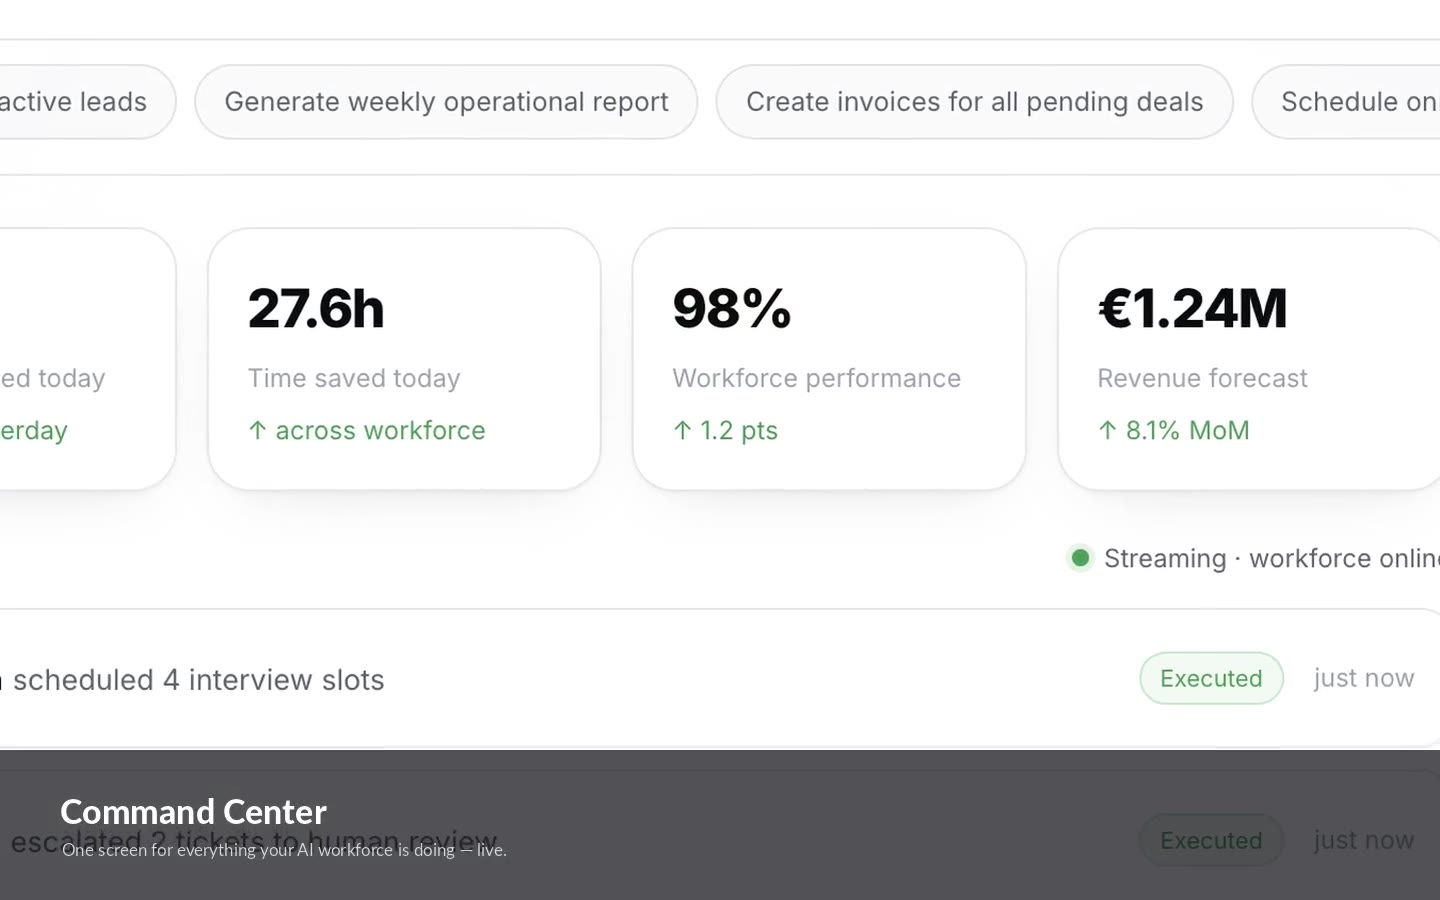
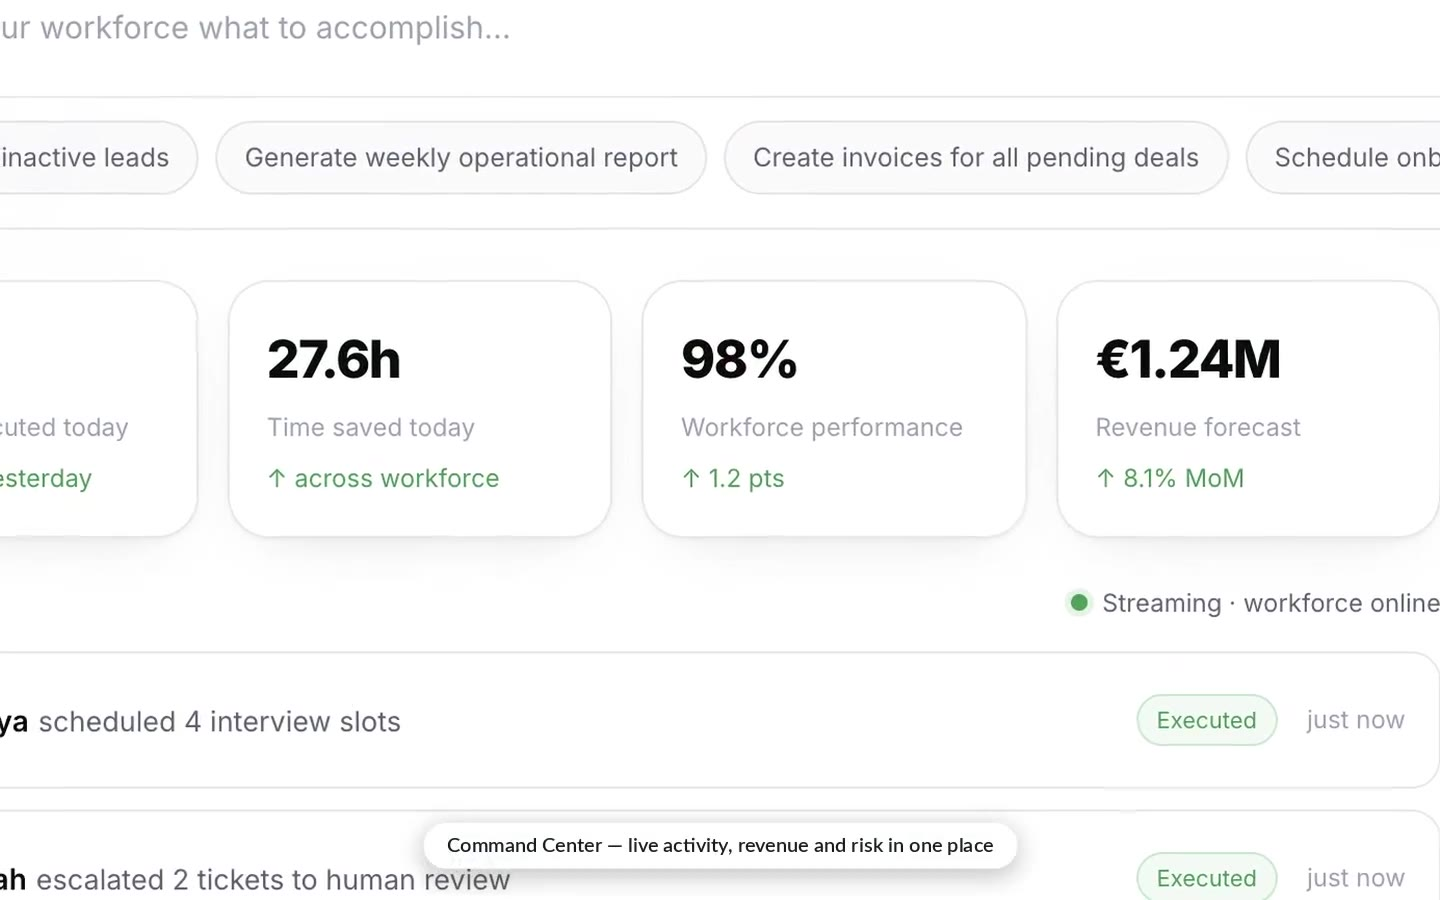
phone

diff --git a/command-center.html b/command-center.html
@@ -4,6 +4,7 @@
 <meta charset="UTF-8" />
 <meta name="viewport" content="width=device-width, initial-scale=1.0" />
 <script>/* auth guard — no dashboard without login */try{if(!localStorage.getItem('nexa_user'))location.replace('signin.html');}catch(e){}</script>
+<script>/* theme init (before paint to avoid flash) */try{var _t=localStorage.getItem('nexa_theme');document.documentElement.dataset.theme=(_t==='dark'||_t==='brand')?_t:'light';}catch(e){}</script>
 <title>NEXA — Command Center</title>
 <link rel="icon" href="assets/img/favicon.png" />
 <link rel="preconnect" href="https://fonts.googleapis.com" />
@@ -193,6 +194,63 @@ body { height: 100vh; overflow: hidden; }
 @media (max-width:820px){
   #repLayout, #docLayout { grid-template-columns: 1fr !important; }
 }
+
+/* =========================================================
+   THEMES — dashboard only · Light · NEXA (brand) · Dark
+   ========================================================= */
+.theme-switch { display:flex; gap:4px; padding:4px; border:1px solid var(--border); border-radius:12px; background:var(--bg-2); margin:auto 0 10px; }
+.theme-switch button { flex:1; display:grid; place-items:center; padding:8px 0; border:none; background:none; border-radius:8px; cursor:pointer; color:var(--text-3); transition:.18s; font-family:inherit; }
+.theme-switch button svg { width:16px; height:16px; }
+.theme-switch button:hover { color:var(--text); }
+.theme-switch button.active { background:var(--card); color:var(--accent-2); box-shadow:0 1px 4px rgba(0,0,0,.12); }
+@media (min-width:681px) and (max-width:1000px){ .theme-switch { flex-direction:column; } }
+@media (max-width:680px){
+  /* compact horizontal group that sits neatly at the end of the mobile tab bar */
+  .side .theme-switch { flex:0 0 auto; flex-direction:row; gap:2px; margin:0 0 0 4px; padding:3px; align-self:center; }
+  .side .theme-switch button { padding:7px 9px; }
+}
+
+/* ---- NEXA brand theme: logo colors (violet → magenta), light & readable ---- */
+html[data-theme="brand"]{
+  --bg:#FBFAFF; --bg-2:#F4F0FC; --surface:#FFFFFF; --card:#FFFFFF;
+  --ink:#1B1233; --text:#1B1233; --text-2:#675E83; --text-3:#7E73A2;
+  --border:rgba(124,58,237,0.14); --border-strong:rgba(124,58,237,0.24);
+  --accent:#7C3AED; --accent-2:#6D28D9; --accent-soft:#C4B5FD; --accent-glow:rgba(124,58,237,0.28);
+  --warm:#7C3AED; --warm-2:#C4B5FD; --sunset:#EC4899;
+  --warm-glow:rgba(236,72,153,0.18); --sunset-glow:rgba(236,72,153,0.20);
+}
+html[data-theme="brand"] .nav-i.active{ background:linear-gradient(100deg, rgba(124,58,237,0.20), rgba(236,72,153,0.08)); box-shadow:inset 0 0 0 1px rgba(124,58,237,0.30); }
+html[data-theme="brand"] .cmd-input .send,
+html[data-theme="brand"] .rep .gen,
+html[data-theme="brand"] .act .av,
+html[data-theme="brand"] .wf-card .av{ background:linear-gradient(135deg,var(--accent),var(--sunset)); }
+html[data-theme="brand"] .cmd-input:focus-within{ box-shadow:0 0 0 4px rgba(124,58,237,0.12); }
+
+/* ---- Dark theme — high contrast, everything stays legible ---- */
+html[data-theme="dark"]{
+  --bg:#0B0D12; --bg-2:#0E1117; --surface:#11141B; --card:#171B24;
+  --ink:#EEF1F6; --text:#EEF1F6; --text-2:#AAB2C0; --text-3:#7E8696;
+  --border:rgba(255,255,255,0.10); --border-strong:rgba(255,255,255,0.20);
+  --accent:#818CF8; --accent-2:#A5B4FC; --accent-soft:#A5B4FC; --accent-glow:rgba(129,140,248,0.30);
+  --warm:#A78BFA; --warm-2:#C4B5FD; --sunset:#60A5FA;
+  --success:#34D399; --warning:#FBBF24; --error:#F87171;
+}
+html[data-theme="dark"] body,
+html[data-theme="dark"] .app { background:var(--bg); }
+html[data-theme="dark"] .glass{ background:var(--card); box-shadow:0 1px 2px rgba(0,0,0,.45), 0 14px 32px -20px rgba(0,0,0,.8); }
+html[data-theme="dark"] .cmdbar{ background:rgba(17,20,27,0.72); }
+html[data-theme="dark"] .cmd-input .mic{ background:var(--card); color:var(--text-2); }
+html[data-theme="dark"] .int-card .lg{ background:var(--card); }
+html[data-theme="dark"] .int-toggle{ background:var(--card); color:var(--text); }
+html[data-theme="dark"] .perfbar{ background:rgba(255,255,255,0.12); }
+html[data-theme="dark"] .nav-i:hover{ background:rgba(255,255,255,0.06); }
+html[data-theme="dark"] .suggestion{ background:rgba(255,255,255,0.04); }
+html[data-theme="dark"] .task,
+html[data-theme="dark"] .wf-card .m{ background:rgba(255,255,255,0.04); }
+html[data-theme="dark"] .col h4 .ct{ background:rgba(255,255,255,0.08); }
+html[data-theme="dark"] .rec{ background:rgba(129,140,248,0.10); }
+html[data-theme="dark"] .theme-switch button.active{ box-shadow:0 1px 4px rgba(0,0,0,.55); }
+html[data-theme="dark"] ::-webkit-scrollbar-thumb{ background:#2a2f3a; border-color:var(--bg-2); }
 </style>
 </head>
 <body>
@@ -214,7 +272,12 @@ body { height: 100vh; overflow: hidden; }
     <a class="nav-i" data-view="documents" href="#documents"><span class="ic"><svg viewBox="0 0 24 24" fill="none" stroke="currentColor" stroke-width="2" stroke-linecap="round" stroke-linejoin="round"><path d="M14 2H6a2 2 0 0 0-2 2v16a2 2 0 0 0 2 2h12a2 2 0 0 0 2-2V8Z"/><polyline points="14 2 14 8 20 8"/><line x1="8" y1="13" x2="16" y2="13"/><line x1="8" y1="17" x2="13" y2="17"/></svg></span><span data-i18n="cc.documents">Documents</span></a>
     <a class="nav-i" data-view="settings" href="#settings"><span class="ic"><svg viewBox="0 0 24 24" fill="none" stroke="currentColor" stroke-width="2" stroke-linecap="round" stroke-linejoin="round"><circle cx="12" cy="12" r="3"/><path d="M19.4 15a1.65 1.65 0 0 0 .33 1.82l.06.06a2 2 0 1 1-2.83 2.83l-.06-.06a1.65 1.65 0 0 0-1.82-.33 1.65 1.65 0 0 0-1 1.51V21a2 2 0 0 1-4 0v-.09A1.65 1.65 0 0 0 9 19.4a1.65 1.65 0 0 0-1.82.33l-.06.06a2 2 0 1 1-2.83-2.83l.06-.06a1.65 1.65 0 0 0 .33-1.82 1.65 1.65 0 0 0-1.51-1H3a2 2 0 0 1 0-4h.09A1.65 1.65 0 0 0 4.6 9a1.65 1.65 0 0 0-.33-1.82l-.06-.06a2 2 0 1 1 2.83-2.83l.06.06a1.65 1.65 0 0 0 1.82.33H9a1.65 1.65 0 0 0 1-1.51V3a2 2 0 0 1 4 0v.09a1.65 1.65 0 0 0 1 1.51 1.65 1.65 0 0 0 1.82-.33l.06-.06a2 2 0 1 1 2.83 2.83l-.06.06a1.65 1.65 0 0 0-.33 1.82V9a1.65 1.65 0 0 0 1.51 1H21a2 2 0 0 1 0 4h-.09a1.65 1.65 0 0 0-1.51 1Z"/></svg></span><span data-i18n="cc.settings">Settings</span></a>
     <a class="nav-i" href="#" id="navShop" onclick="openShop();return false;"><span class="ic"><svg viewBox="0 0 24 24" fill="none" stroke="currentColor" stroke-width="2" stroke-linecap="round" stroke-linejoin="round"><path d="M6 2 3 6v14a2 2 0 0 0 2 2h14a2 2 0 0 0 2-2V6l-3-4Z"/><line x1="3" y1="6" x2="21" y2="6"/><path d="M16 10a4 4 0 0 1-8 0"/></svg></span><span data-i18n="cc.marketplace">Marketplace</span></a>
-    <div class="user"><span class="av" id="meAvatar" style="overflow:hidden">K</span><div style="flex:1;min-width:0"><div style="font-size:13px;font-weight:600" id="meName">Kain</div><div style="font-size:11px;color:var(--text-3)" id="meSub">Admin · Acme Inc.</div></div><a class="logout" href="signin.html" title="Sign out" onclick="try{localStorage.removeItem('nexa_user');localStorage.removeItem('nexa_token');}catch(e){}"><svg width="15" height="15" viewBox="0 0 24 24" fill="none" stroke="currentColor" stroke-width="2" stroke-linecap="round" stroke-linejoin="round"><path d="M9 21H5a2 2 0 0 1-2-2V5a2 2 0 0 1 2-2h4"/><polyline points="16 17 21 12 16 7"/><line x1="21" y1="12" x2="9" y2="12"/></svg></a></div>
+    <div class="theme-switch" id="themeSwitch" role="group" aria-label="Theme">
+      <button type="button" data-theme-val="light" title="Light" aria-label="Light theme"><svg viewBox="0 0 24 24" fill="none" stroke="currentColor" stroke-width="2" stroke-linecap="round" stroke-linejoin="round"><circle cx="12" cy="12" r="4"/><path d="M12 2v2M12 20v2M4.93 4.93l1.41 1.41M17.66 17.66l1.41 1.41M2 12h2M20 12h2M6.34 17.66l-1.41 1.41M19.07 4.93l-1.41 1.41"/></svg></button>
+      <button type="button" data-theme-val="brand" title="NEXA colors" aria-label="NEXA brand theme"><svg viewBox="0 0 24 24" fill="none" stroke="currentColor" stroke-width="2" stroke-linecap="round" stroke-linejoin="round"><path d="M12 3l1.9 5.2L19 10l-5.1 1.8L12 17l-1.9-5.2L5 10l5.1-1.8L12 3z"/></svg></button>
+      <button type="button" data-theme-val="dark" title="Dark" aria-label="Dark theme"><svg viewBox="0 0 24 24" fill="none" stroke="currentColor" stroke-width="2" stroke-linecap="round" stroke-linejoin="round"><path d="M21 12.79A9 9 0 1 1 11.21 3 7 7 0 0 0 21 12.79z"/></svg></button>
+    </div>
+    <div class="user" style="margin-top:0"><span class="av" id="meAvatar" style="overflow:hidden">K</span><div style="flex:1;min-width:0"><div style="font-size:13px;font-weight:600" id="meName">Kain</div><div style="font-size:11px;color:var(--text-3)" id="meSub">Admin · Acme Inc.</div></div><a class="logout" href="signin.html" title="Sign out" onclick="try{localStorage.removeItem('nexa_user');localStorage.removeItem('nexa_token');}catch(e){}"><svg width="15" height="15" viewBox="0 0 24 24" fill="none" stroke="currentColor" stroke-width="2" stroke-linecap="round" stroke-linejoin="round"><path d="M9 21H5a2 2 0 0 1-2-2V5a2 2 0 0 1 2-2h4"/><polyline points="16 17 21 12 16 7"/><line x1="21" y1="12" x2="9" y2="12"/></svg></a></div>
   </aside>
 
   <!-- CENTER -->
@@ -1337,6 +1400,21 @@ function renderDocuments(){
 
 window.runCommand = runCommand;
 window.addEventListener('nexa:lang', () => navigate(currentView));
+/* ---------- theme switch (Light · NEXA · Dark) ---------- */
+(function(){
+  var sw = document.getElementById('themeSwitch'); if(!sw) return;
+  var btns = sw.querySelectorAll('button');
+  function current(){ var t=document.documentElement.dataset.theme; return (t==='dark'||t==='brand')?t:'light'; }
+  function apply(t){
+    if(t!=='dark'&&t!=='brand') t='light';
+    document.documentElement.dataset.theme = t;
+    try{ localStorage.setItem('nexa_theme', t); }catch(e){}
+    btns.forEach(function(b){ b.classList.toggle('active', b.dataset.themeVal===t); });
+  }
+  btns.forEach(function(b){ b.addEventListener('click', function(){ apply(b.dataset.themeVal); }); });
+  apply(current());
+})();
+
 /* ---------- boot ---------- */
 initMe();
 navigate(location.hash.replace('#','') || 'dashboard');

diff --git a/walkthrough.html b/walkthrough.html
@@ -19,11 +19,9 @@
 <style>
 .wt-hero { padding:140px 0 50px; text-align:center; }
 .wt-hero .lead { margin:20px auto 0; max-width:600px; }
-.player-wrap { max-width:980px; margin:42px auto 0; }
-.player-frame { border-radius:20px; overflow:hidden; border:1px solid var(--border); box-shadow:var(--shadow-lift); background:#0A0A0A; }
-.player-frame .bar { display:flex; align-items:center; gap:7px; padding:11px 14px; border-bottom:1px solid rgba(255,255,255,.08); background:#15161c; }
-.player-frame .bar i { width:10px; height:10px; border-radius:50%; }
-.player-frame video { width:100%; display:block; aspect-ratio:16/10; background:#0A0A0A; }
+.player-wrap { max-width:1000px; margin:42px auto 0; }
+.player-frame { border-radius:18px; overflow:hidden; box-shadow:0 30px 70px -30px rgba(10,10,20,.45), 0 2px 8px rgba(10,10,20,.06); background:#0A0A0A; line-height:0; }
+.player-frame video { width:100%; display:block; aspect-ratio:16/10; background:#0A0A0A; border-radius:18px; }
 .chips-row { display:flex; flex-wrap:wrap; gap:9px; justify-content:center; margin-top:22px; }
 .chip-seek { font-size:13px; font-weight:600; color:var(--text-2); padding:8px 14px; border-radius:999px; border:1px solid var(--border); background:var(--bg); cursor:pointer; transition:.18s; }
 .chip-seek:hover { border-color:var(--accent); color:var(--accent-2); transform:translateY(-1px); }
@@ -35,6 +33,15 @@
 .shot-frame .bar { display:flex; align-items:center; gap:7px; padding:11px 14px; border-bottom:1px solid var(--border); background:var(--bg-2); }
 .shot-frame .bar i { width:10px; height:10px; border-radius:50%; }
 .cta-band { text-align:center; background:linear-gradient(rgba(10,12,24,.46),rgba(10,12,24,.6)), url('https://images.unsplash.com/photo-1518770660439-4636190af475?auto=format&fit=crop&w=1600&q=70') center/cover no-repeat #0A0A0A; color:#fff; border-radius:var(--radius-xl); padding:70px 28px; text-shadow:0 2px 14px rgba(0,0,0,.55); } .cta-band h2{color:#fff;}
+@media (max-width:640px){
+  .wt-hero { padding:104px 0 34px; }
+  .player-wrap { margin-top:26px; }
+  .player-frame video { aspect-ratio:16/11; }
+  .chips-row { gap:7px; margin-top:16px; }
+  .chip-seek { font-size:12px; padding:7px 12px; }
+  .shot-frame .photo { height:240px !important; }
+  .cta-band { padding:52px 20px; }
+}
 </style>
 </head>
 <body>
@@ -49,7 +56,6 @@
     <a href="integrations.html" data-i18n="nav.integrations">Integrations</a>
     <a href="marketplace.html" data-i18n="nav.marketplace">Marketplace</a>
     <a href="pricing.html" data-i18n="nav.pricing">Pricing</a>
-    <a href="walkthrough.html" style="color:var(--ink)" data-i18n="nav.walkthrough">Walkthrough</a>
   </div>
   <div class="nav-actions">
     <span data-lang-mount></span>
@@ -65,7 +71,7 @@
   <a href="integrations.html" data-i18n="nav.integrations">Integrations</a>
   <a href="marketplace.html" data-i18n="nav.marketplace">Marketplace</a>
   <a href="pricing.html" data-i18n="nav.pricing">Pricing</a>
-  <a href="walkthrough.html" data-i18n="nav.walkthrough">Walkthrough</a>
+  <a href="#" data-demo data-i18n="nav.demo">Book a demo</a>
   <a href="signin.html" data-i18n="nav.signin">Sign in</a>
   <a href="onboarding.html" class="btn btn-primary" style="margin-top:10px" data-i18n="nav.deploy">Deploy Workforce</a>
 </div>
@@ -78,7 +84,6 @@
     <p class="lead">From creating your workspace and connecting your tools, to deploying pre-trained AI employees and running everything from a live Command Center — in under a minute.</p>
     <div class="player-wrap reveal">
       <div class="player-frame">
-        <div class="bar"><i style="background:#ff5f57"></i><i style="background:#febc2e"></i><i style="background:#28c840"></i></div>
         <video id="wtVideo" controls playsinline preload="metadata" poster="assets/walkthrough-poster.jpg">
           <source src="assets/walkthrough.mp4" type="video/mp4">
           Your browser doesn’t support embedded video. <a href="assets/walkthrough.mp4">Download the walkthrough</a>.
@@ -153,6 +158,36 @@
     <p class="faint" style="margin-top:46px;font-size:13px">© 2026 NEXA · SOC 2 Type II · GDPR · Dev by <a href="https://www.kainlareine.nl" target="_blank" rel="noopener" style="color:inherit;text-decoration:underline">Kain Mckancy</a></p>
   </div>
 </footer>
+
+<!-- DEMO MODAL -->
+<div class="modal-back" id="demoModal">
+  <div class="modal">
+    <div class="mhead"><div><h3 data-i18n="demo.title">Book your NEXA demo</h3><div class="msub" data-i18n="demo.sub">Pick a slot — we walk you through deploying your first AI workforce.</div></div><button class="x" data-demo-close aria-label="Close">✕</button></div>
+    <div id="demoForm">
+      <div class="mlabel" data-i18n="demo.name">Your details</div>
+      <div class="mfield"><input id="dName" placeholder="Full name" autocomplete="name"></div>
+      <div class="mfield"><input id="dEmail" type="email" placeholder="Work email" autocomplete="email"></div>
+      <div class="mrow2">
+        <div class="mfield"><input id="dCompany" placeholder="Company" autocomplete="organization"></div>
+        <div class="mfield"><select id="dTeam"><option value="" disabled selected data-i18n="demo.teamph">Team size…</option><option>1–10</option><option>11–50</option><option>51–200</option><option>201–1000</option><option>1000+</option></select></div>
+      </div>
+      <div class="mlabel" data-i18n="demo.topics">What would you like to see?</div>
+      <div class="chips" id="dTopics">
+        <button class="ch sel" data-topic="Operations">Operations</button>
+        <button class="ch" data-topic="Sales">Sales</button>
+        <button class="ch" data-topic="Finance">Finance</button>
+        <button class="ch" data-topic="Support">Support</button>
+        <button class="ch" data-topic="Recruiting">Recruiting</button>
+      </div>
+      <div class="mlabel" data-i18n="demo.date">Choose a day</div>
+      <div class="chips" id="dDates"></div>
+      <div class="mlabel" data-i18n="demo.time">Choose a time</div>
+      <div class="chips" id="dTimes"></div>
+      <button class="btn btn-primary btn-block btn-lg" id="dConfirm" style="margin-top:22px" data-i18n="demo.confirm">Confirm booking</button>
+    </div>
+    <div id="demoDone" class="done hidden"><div class="ok">✓</div><h3 data-i18n="demo.booked">Demo booked!</h3><div class="msub" id="demoWhen" style="margin-top:8px;font-weight:600;color:var(--ink)"></div><div class="msub" data-i18n="demo.bookedsub" style="margin-top:6px">Check your inbox for the calendar invite.</div></div>
+  </div>
+</div>
 
 <script src="assets/js/logos.js"></script>
 <script src="assets/js/i18n.js"></script>

diff --git a/assets/css/nexa.css b/assets/css/nexa.css
@@ -132,7 +132,7 @@ h1,h2,h3,h4 { font-weight:700; letter-spacing:-0.035em; line-height:1.04; color:
 .mobile-menu a.btn-ghost { color:var(--ink); }
 .mobile-backdrop { position:fixed; inset:0; background:rgba(10,10,10,0.3); opacity:0; visibility:hidden; transition:.25s; z-index:250; }
 .mobile-backdrop.open { opacity:1; visibility:visible; }
-@media (max-width:920px){ .nav-toggle { display:flex; } }
+@media (max-width:1040px){ .nav-toggle { display:flex; } .nav-actions .btn { display:none; } }
 
 /* ---------- Ambient (very subtle, strak) ---------- */
 .ambient { position:fixed; inset:0; z-index:-2; pointer-events:none; background:radial-gradient(800px 500px at 80% -10%, rgba(99,102,241,0.05), transparent 60%), radial-gradient(700px 500px at 5% 10%, rgba(236,72,153,0.04), transparent 60%); }

diff --git a/assets/js/i18n.js b/assets/js/i18n.js
@@ -46,6 +46,7 @@ if (!window.gsap) {
     'nav.deploy':     { en:'Deploy Workforce', de:'Belegschaft starten', nl:'Personeel inzetten' },
     'nav.home':       { en:'Home',         de:'Start',         nl:'Home' },
     'nav.command':    { en:'Command Center', de:'Kommandozentrale', nl:'Commandocentrum' },
+    'nav.walkthrough':{ en:'Walkthrough',   de:'Rundgang',      nl:'Rondleiding' },
 
     // -------- hero --------
     'hero.badge':  { en:'The AI Workforce Operating System', de:'Das Betriebssystem für die KI-Belegschaft', nl:'Het besturingssysteem voor je AI-personeel' },
@@ -194,6 +195,7 @@ if (!window.gsap) {
     'cc.cmd_ph':   { en:'Tell your workforce what to accomplish…', de:'Sag deiner Belegschaft, was zu tun ist…', nl:'Vertel je personeel wat het moet doen…' },
     'cc.execute':  { en:'Execute', de:'Ausführen', nl:'Uitvoeren' },
     'cc.dashboard':{ en:'Command Center', de:'Kommandozentrale', nl:'Commandocentrum' },
+    'cc.walkthrough':{ en:'Walkthrough', de:'Rundgang', nl:'Rondleiding' },
     'cc.workforce':{ en:'Workforce', de:'Belegschaft', nl:'Personeel' },
     'cc.operations':{ en:'Operations', de:'Betrieb', nl:'Operatie' },
     'cc.integrations':{ en:'Integrations', de:'Integrationen', nl:'Integraties' },